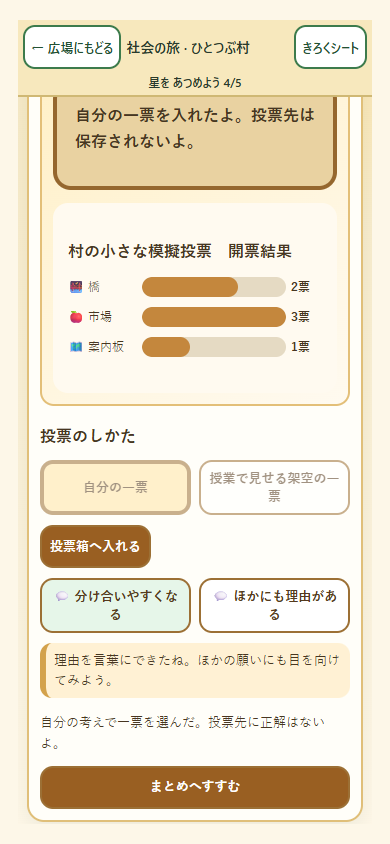
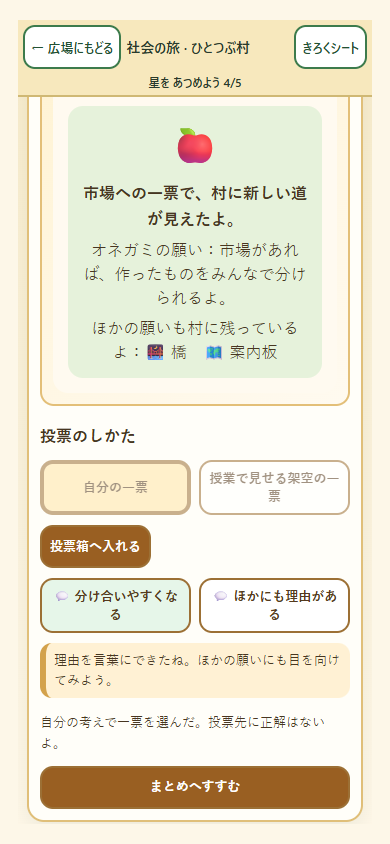
理科・社会の授業ゲームに試行と開票の手応えを追加
なぜ: 一度のタップで結果まで見せる場面が多く、途中の変化を見て考える楽しさが弱かったため。

どう作ったか: 発電3回と村の願いの進行を可視化。夜の小道は7目盛の試運転にし、開票は固定20通を5通ずつ開く。投票所の見え方と一票後の村の様子も示した。星・仲間・投票先の保存条件は変えていない。

確かめたこと: npm run build成功。全19群1122件ALL-PASS。専用ChromeでPC1280x800とスマホ縦390x844の両方にて2作品各5場面を実タップし、横はみ出し0、画像読込OK、例外0、捕獲保存と保存2キーの一致を確認。児童試遊は未実施。

Changed region(s): [[0.1231, 0.0924, 0.8615, 0.4621]]

diff --git a/public/lessons/gotomon/lesson-game-v2.js b/public/lessons/gotomon/lesson-game-v2.js
@@ -1,5 +1,6 @@
 import { ENERGY_CAPACITY, VOLTAGE_LEVELS, SPEED_NAMES, compareLamps,
-  simulateLightPlan, ELECTION_ERAS, PROPOSALS, turnoutTally, ballotTally } from './lesson-model-v2.js';
+  simulateLightPlan, ELECTION_ERAS, PROPOSALS, TURNOUT_BALLOTS,
+  countTurnoutBallots, ballotTally } from './lesson-model-v2.js';
 
 const slug = document.body.dataset.lesson;
 const root = document.getElementById('lesson-game');
@@ -91,11 +92,12 @@ function choiceGroup(target, options, selected, onSelect) {
   }
 }
 
-function timeline(ticks) {
+function timeline(ticks, revealed = ticks.length) {
   const line = node('div', 'lgv-timeline');
-  for (const tick of ticks) {
-    const cell = node('div', `lgv-tick ${tick.dark ? 'is-night' : 'is-day'} ${tick.lit ? 'is-lit' : ''}`);
-    cell.append(node('span', '', tick.dark ? '🌙' : '☀'), node('strong', '', tick.lit ? '💡' : '·'), node('small', '', tick.label));
+  for (const [index, tick] of ticks.entries()) {
+    const pending = index >= revealed;
+    const cell = node('div', `lgv-tick ${tick.dark ? 'is-night' : 'is-day'} ${!pending && tick.lit ? 'is-lit' : ''} ${pending ? 'is-pending' : ''}`);
+    cell.append(node('span', '', tick.dark ? '🌙' : '☀'), node('strong', '', pending ? '？' : tick.lit ? '💡' : '·'), node('small', '', tick.label));
     line.append(cell);
   }
   return line;
@@ -103,7 +105,7 @@ function timeline(ticks) {
 
 function tallyChart(votes) {
   const chart = node('div', 'lgv-tally');
-  const maximum = Math.max(...Object.values(votes));
+  const maximum = Math.max(1, ...Object.values(votes));
   for (const proposal of PROPOSALS) {
     const count = votes[proposal.id];
     const row = node('div', 'lgv-tally-row');
@@ -139,29 +141,39 @@ function renderKururuCrank() {
     turns = Math.min(3, turns + 1);
     rotation += speed === 'fast' ? 145 : speed === 'middle' ? 95 : 55;
     wheel.style.setProperty('--turn', `${rotation}deg`);
-    gauge.style.width = `${VOLTAGE_LEVELS[speed]}%`;
+    gauge.style.width = `${Math.round(VOLTAGE_LEVELS[speed] * turns / 3)}%`;
     gaugeLabel.textContent = `電圧計の針: ${SPEED_NAMES[speed]}回すと ${speed === 'fast' ? '高い' : speed === 'slow' ? '低い' : '中くらい'}`;
     count.textContent = `${turns} / 3 回`;
+    for (const [index, cell] of [...charges.children].entries()) cell.classList.toggle('is-charged', index < turns);
     if (turns === 3) {
+      wheel.disabled = true;
       records.add(speed);
-      observations.textContent = [...records].map(key => `${SPEED_NAMES[key]}: ${key === 'fast' ? '高い' : key === 'slow' ? '低い' : '中くらい'}`).join('　｜　');
+      clear(observations);
+      for (const key of records) observations.append(node('span', 'lgv-voltage-card',
+        `${key === 'fast' ? '⚡' : key === 'middle' ? '🔄' : '🐢'} ${SPEED_NAMES[key]}：${key === 'fast' ? '高い' : key === 'slow' ? '低い' : '中くらい'}`));
       ui.say(`${SPEED_NAMES[speed]}速さで3回回したよ。別の速さでも比べよう。`);
       if (records.size >= 2) ui.unlock('同じ発電機では、速く回すほど電圧計の針が大きく動いたね。');
     }
   }, 'lgv-wheel');
   wheel.setAttribute('aria-label', '発電機を1回回す');
   const count = node('strong', 'lgv-count', '0 / 3 回');
+  const charges = node('div', 'lgv-charges');
+  for (let index = 0; index < 3; index++) charges.append(node('span', '', '⚡'));
   const gaugeBox = node('div', 'lgv-gauge');
   const gauge = node('span', 'lgv-gauge-fill');
   gaugeBox.append(gauge);
   const gaugeLabel = paragraph('速さを選んで、発電機を回そう。', 'lgv-readout');
-  machine.append(node('span', 'lgv-spark', '⚡'), wheel, count, gaugeBox, gaugeLabel);
+  machine.append(node('span', 'lgv-spark', '⚡'), wheel, count, charges, gaugeBox, gaugeLabel);
   const observations = node('div', 'lgv-observations', '観察カードはここに並ぶよ');
   ui.play.append(machine, observations);
   ui.controls.append(paragraph('回す速さを選ぶ', 'lgv-control-label'), dial);
   const drawDial = () => choiceGroup(dial, [
     { value: 'slow', label: '🐢 ゆっくり' }, { value: 'middle', label: '🔄 ふつう' }, { value: 'fast', label: '⚡ はやく' },
-  ], speed, value => { speed = value; turns = 0; count.textContent = '0 / 3 回'; drawDial(); ui.say(`${SPEED_NAMES[speed]}速さで、3回回してみよう。`); });
+  ], speed, value => {
+    speed = value; turns = 0; wheel.disabled = false; gauge.style.width = '0%'; count.textContent = '0 / 3 回';
+    for (const cell of charges.children) cell.classList.remove('is-charged');
+    drawDial(); ui.say(`${SPEED_NAMES[speed]}速さで、3回回してみよう。`);
+  });
   drawDial();
 }
 
@@ -247,54 +259,89 @@ function renderKururuSensor() {
 }
 
 function renderKururuFinal() {
-  const ui = stageShell(stageTitles[4], '部品を組み合わせて、夜の小道を4目盛の間、照らしてみよう。');
+  const ui = stageShell(stageTitles[4], '部品を組み合わせ、昼から夜へ一歩ずつ進めよう。夜の4か所に明かりを届けられるかな？');
   const settings = { store: true, lamp: 'bulb', rule: 'always' };
   const groups = [node('div', 'lgv-segments'), node('div', 'lgv-segments'), node('div', 'lgv-segments')];
   const result = node('div', 'lgv-simulation', '組み合わせを選んで試運転しよう。');
+  let outcome = null, revealed = 0;
+  const step = button('次の1目盛へすすむ', () => {
+    if (!outcome || revealed >= outcome.ticks.length) return;
+    revealed += 1;
+    drawRun();
+    const current = outcome.ticks[revealed - 1];
+    ui.say(current.dark
+      ? current.lit ? `${current.label}の小道に明かりが届いた！` : `${current.label}は暗いまま。電気を使った場所を見直してみよう。`
+      : current.lit ? `${current.label}に点灯したよ。夜へ残る電気も見てみよう。` : `${current.label}は点灯しなかったよ。電気は夜へ残せるかな？`);
+    if (revealed === outcome.ticks.length) {
+      step.disabled = true;
+      ui.say(outcome.nightLit === 4 ? '夜の4か所全部に明かりが届いた！別の組み合わせも試せるよ。'
+        : `夜の4か所のうち${outcome.nightLit}か所を照らしたよ。部品を変えて、もう一度試せるよ。`);
+      ui.unlock('作る・ためる・使う方法を組み合わせて考えたね。どの結果も発見の星になるよ。');
+    }
+  }, 'lgv-action lgv-step');
+  step.disabled = true;
+  const drawRun = () => {
+    if (!outcome) return;
+    const current = outcome.ticks[revealed - 1];
+    const path = node('div', 'lgv-night-path');
+    for (let index = 0; index < 4; index++) {
+      const night = outcome.ticks[index + 3];
+      const visited = revealed > index + 3;
+      path.append(node('span', `lgv-path-light ${visited ? night.lit ? 'is-lit' : 'is-dark' : ''}`,
+        `${visited ? night.lit ? '💡' : '·' : '？'} ${index + 1}`));
+    }
+    clear(result, paragraph(`小道のミッション　夜の4か所を照らそう　${revealed}/7目盛`, 'lgv-mission'),
+      timeline(outcome.ticks, revealed), path, meter('残りの電気', current ? current.energy : settings.store ? ENERGY_CAPACITY : 0),
+      paragraph(revealed === 7 ? `夜の小道は 4目盛のうち ${outcome.nightLit}目盛 光ったよ。` : '自分のペースで一歩ずつ進めよう。'));
+  };
+  const resetRun = () => {
+    outcome = null; revealed = 0; step.disabled = true;
+    result.textContent = '組み合わせを変えたよ。試運転を始めよう。';
+  };
   const renderGroups = () => {
     choiceGroup(groups[0], [{ value: false, label: '昼に直接使う' }, { value: true, label: 'ためて夜へ' }], settings.store,
-      value => { settings.store = value; renderGroups(); });
+      value => { settings.store = value; resetRun(); renderGroups(); });
     choiceGroup(groups[1], [{ value: 'bulb', label: '豆電球' }, { value: 'led', label: 'LED' }], settings.lamp,
-      value => { settings.lamp = value; renderGroups(); });
+      value => { settings.lamp = value; resetRun(); renderGroups(); });
     choiceGroup(groups[2], [{ value: 'always', label: 'いつも点灯' }, { value: 'dark', label: '暗い時だけ' }], settings.rule,
-      value => { settings.rule = value; renderGroups(); });
+      value => { settings.rule = value; resetRun(); renderGroups(); });
   };
-  ui.play.append(node('div', 'lgv-path', '🏠　💡　💡　💡　🌲'), result);
+  ui.play.append(node('div', 'lgv-path', '🏠　🌲　🌲　🌲　🌲'), result);
   ui.controls.append(paragraph('1 電気の行き先', 'lgv-control-label'), groups[0],
     paragraph('2 明かりの道具', 'lgv-control-label'), groups[1],
     paragraph('3 点灯の命令', 'lgv-control-label'), groups[2],
     button('小道で試運転する', () => {
-      const outcome = simulateLightPlan(settings);
-      clear(result, timeline(outcome.ticks), paragraph(`夜の小道は 4目盛のうち ${outcome.nightLit}目盛 光ったよ。`),
-        meter('残りの電気', outcome.remaining));
-      ui.say(outcome.nightLit === 4 ? '小道が夜の間ずっと光った！ほかの組み合わせも試せるよ。'
-        : 'ここまでの明かりが見えたね。部品を変えてもう一度試せるよ。');
-      ui.unlock('作る・ためる・使う方法を組み合わせて考えたね。結果にかかわらず、この発見は星になるよ。');
-    }, 'lgv-action'));
+      outcome = simulateLightPlan(settings); revealed = 0; step.disabled = false; drawRun();
+      ui.say('電気をどこで使うか、昼から夜へ一歩ずつ見てみよう。');
+    }, 'lgv-action'), step);
   renderGroups();
 }
 
 function renderHyouVillage() {
   const ui = stageShell(stageTitles[0], '川、畑、分かれ道へ。好きな順に行って、3人の困りごとを確かめよう。');
   const seen = new Set();
+  const progress = node('div', 'lgv-village-progress', '願いカード 0 / 3');
   const map = node('div', 'lgv-village-map');
   const visit = node('div', 'lgv-visit', '場所を選んで村を歩こう。');
   const cards = node('div', 'lgv-wish-cards');
   for (const proposal of PROPOSALS) {
-    map.append(button(`${proposal.icon} ${proposal.place}`, () => {
+    const place = button(`${proposal.icon} ${proposal.place}`, () => {
       const face = node('img', 'lgv-visitor'); face.src = proposal.image; face.alt = proposal.gotomon;
       clear(visit, face, node('h2', '', `${proposal.gotomon}のいる${proposal.place}`),
         button(proposal.action, () => {
           seen.add(proposal.id);
+          place.classList.add('is-visited');
+          progress.textContent = `願いカード ${seen.size} / 3`;
           clear(visit, face, node('h2', '', `${proposal.place}で見つけたこと`), paragraph(proposal.need), paragraph(proposal.wish));
           clear(cards);
           for (const found of PROPOSALS.filter(item => seen.has(item.id))) cards.append(node('span', 'lgv-wish-card', `${found.icon} ${found.name}`));
           ui.say(`${proposal.gotomon}の願いを聞いたよ。ほかの場所にも行ってみよう。`);
           if (seen.size === 3) ui.unlock('3人には違う願いがあり、それぞれに理由がある。');
         }, 'lgv-action'));
-    }, 'lgv-place'));
+    }, 'lgv-place');
+    map.append(place);
   }
-  ui.play.append(map, visit, cards);
+  ui.play.append(progress, map, visit, cards);
 }
 
 function renderHyouHistory() {
@@ -329,6 +376,8 @@ function renderHyouBooth() {
     for (const [id, icon, label] of [['desk', '📝', '受付'], ['screen', '🚪', 'ついたて'], ['box', '🗳', '投票箱']]) {
       booth.append(node('div', `lgv-booth-part ${parts.has(id) ? 'is-placed' : ''}`, `${icon} ${label}`));
     }
+    booth.append(node('div', `lgv-sightline ${parts.has('screen') ? 'is-private' : ''}`,
+      parts.has('screen') ? '👀　ついたてで投票先が見えない' : '👀　記入するところが周りから見える'));
     clear(partButtons);
     for (const [id, label] of [['desk', '受付'], ['screen', 'ついたて'], ['box', '投票箱']]) {
       const control = button(`${parts.has(id) ? '✓ ' : '+ '}${label}`, () => {
@@ -351,22 +400,56 @@ function renderHyouBooth() {
 }
 
 function renderHyouTurnout() {
-  const ui = stageShell(stageTitles[3], '村の20人の例。参加が10人と20人のとき、開票を比べよう。');
+  const ui = stageShell(stageTitles[3], '架空の20人の票を5通ずつ開こう。参加が10人と20人のとき、先頭はどうなるかな？');
   const seen = new Set();
-  const chart = node('div', 'lgv-ballot-result', '参加人数を選んで開票しよう。');
-  const choices = node('div', 'lgv-segments');
+  let target = 10, revealed = 0, prediction = null;
+  const chart = node('div', 'lgv-ballot-result');
+  const envelopes = node('div', 'lgv-envelopes');
+  const choices = node('div', 'lgv-segments lgv-turnout-choices');
+  const guesses = node('div', 'lgv-segments');
+  const draw = () => {
+    clear(envelopes);
+    for (let index = 0; index < target; index++) {
+      const opened = index < revealed;
+      const proposal = opened ? PROPOSALS.find(item => item.id === TURNOUT_BALLOTS[index]) : null;
+      envelopes.append(node('span', `lgv-envelope ${opened ? 'is-open' : ''}`,
+        opened ? proposal.icon : '✉'));
+    }
+    clear(chart, node('strong', '', `📬 ${revealed} / ${target}通を開いたよ`), envelopes,
+      tallyChart(countTurnoutBallots(revealed)));
+    open.disabled = revealed >= target;
+  };
+  const open = button('次の5通を開く', () => {
+    if (revealed >= target) return;
+    revealed = Math.min(target, revealed + 5);
+    draw();
+    if (revealed === target) {
+      seen.add(target);
+      ui.say(target === 10 ? '10人では市場が先頭。さらに10人が参加したらどうなるかな？'
+        : '20人では橋が先頭。増えた票で数字がどう変わったかな？');
+      if (seen.size === 2) ui.unlock('この例では参加人数が変わると先頭も変わった。いつも変わるわけではないよ。');
+    } else ui.say('票が少しずつ積み上がっているね。次の5通も開いてみよう。');
+  }, 'lgv-action');
   for (const participants of [10, 20]) {
     choices.append(button(`${participants}人が参加`, () => {
-      const votes = turnoutTally(participants);
-      seen.add(participants);
-      clear(chart, node('strong', '', `📬 ${participants} / 20人が参加（投票率 ${participants * 5}%）`), tallyChart(votes));
-      ui.say(participants === 10 ? 'この例では市場が先頭だね。20人のときも見てみよう。'
-        : 'この例では橋が先頭だね。10人のときと何が変わったかな？');
-      if (seen.size === 2) ui.unlock('この例では参加人数が変わると結果も変わった。いつも変わるわけではないよ。');
+      if (target !== participants) revealed = participants === 20 && revealed === 10 ? 10 : 0;
+      target = participants;
+      for (const [index, control] of [...choices.children].entries()) {
+        control.classList.toggle('is-selected', index === (participants === 10 ? 0 : 1));
+        control.setAttribute('aria-pressed', String(index === (participants === 10 ? 0 : 1)));
+      }
+      draw();
+      ui.say(participants === 20 && revealed === 10 ? '最初の10通に、あと10通を加えて開こう。'
+        : `${participants}人の票を、5通ずつ開いてみよう。`);
     }, 'lgv-option'));
   }
+  const drawGuesses = () => choiceGroup(guesses, PROPOSALS.map(item => ({ value: item.id, label: `${item.icon} ${item.name}` })), prediction,
+    value => { prediction = value; drawGuesses(); ui.say('予想を置いたよ。開票して確かめよう。'); });
   ui.play.append(chart);
-  ui.controls.append(paragraph('同じ20人の村で比べる', 'lgv-control-label'), choices);
+  ui.controls.append(paragraph('先頭を予想する（変えてもいいよ）', 'lgv-control-label'), guesses,
+    paragraph('同じ20人の村で比べる', 'lgv-control-label'), choices,
+    paragraph('10人の参加は50%、20人の参加は100%。票の数はこの物語だけの例だよ。', 'lgv-small'), open);
+  drawGuesses(); choices.firstChild.classList.add('is-selected'); choices.firstChild.setAttribute('aria-pressed', 'true'); draw();
 }
 
 function renderHyouVote() {
@@ -382,9 +465,14 @@ function renderHyouVote() {
     cast = true;
     const votes = ballotTally(selected);
     clear(booth, paragraph(sample ? '先生が動かす架空の一票を入れたよ。' : '自分の一票を入れたよ。投票先は保存されないよ。'));
-    clear(result, node('strong', '', '村の小さな模擬投票　開票結果'), tallyChart(votes));
-    ui.say('一票を加えると、数字が変わったね。どんな理由で選んだか考えてみよう。');
     const chosen = PROPOSALS.find(proposal => proposal.id === selected);
+    const future = node('div', 'lgv-village-future');
+    future.append(node('span', 'lgv-future-icon', chosen.icon),
+      node('strong', '', `${chosen.name}への一票で、村に新しい道が見えたよ。`),
+      paragraph(`${chosen.gotomon}の願い：${chosen.wish}`),
+      paragraph(`ほかの願いも村に残っているよ：${PROPOSALS.filter(item => item.id !== selected).map(item => `${item.icon} ${item.name}`).join('　')}`));
+    clear(result, node('strong', '', '村の小さな模擬投票　開票結果'), tallyChart(votes), future);
+    ui.say('一票を加えると、数字が変わったね。どんな理由で選んだか考えてみよう。');
     clear(reasons, button(`💬 ${chosen.reason}`, () => {
       ui.say('理由を言葉にできたね。ほかの願いにも目を向けてみよう。');
       ui.unlock('自分の考えで一票を選んだ。投票先に正解はないよ。');

diff --git a/public/lessons/gotomon/lesson-game-v2.css b/public/lessons/gotomon/lesson-game-v2.css
@@ -46,10 +46,14 @@ body[data-lesson="hitotsubu"] .lgv-note { background: #fff1d4; border-left-color
 .lgv-spark { font-size: 26px; }
 .lgv-wheel { width: 90px; height: 90px; border-radius: 50%; border: 8px solid #659b76; font-size: 52px; padding: 0; line-height: 1; color: #205138; background: radial-gradient(circle, #fffdeb 30%, #b1d3a8 31%); transform: rotate(var(--turn, 0deg)); transition: transform .35s ease; }
 .lgv-count { font-size: 18px; }
+.lgv-charges { display: flex; gap: 8px; }
+.lgv-charges span { display: grid; place-items: center; width: 32px; height: 32px; border-radius: 50%; background: #d4e0d3; filter: grayscale(1); opacity: .55; }
+.lgv-charges span.is-charged { background: #ffe597; filter: none; opacity: 1; box-shadow: 0 0 13px #ffcf61; }
 .lgv-gauge { height: 17px; width: min(100%, 360px); background: #b5cbb5; border-radius: 99px; overflow: hidden; }
 .lgv-gauge-fill { display: block; width: 0; height: 100%; background: linear-gradient(90deg, #84bd68, #ffd459); transition: width .35s; }
 .lgv-readout { margin: 0; text-align: center; }
-.lgv-observations { margin-top: 13px; min-height: 36px; text-align: center; padding: 8px; border-radius: 10px; background: #fff9df; font-weight: 700; }
+.lgv-observations { display: flex; justify-content: center; flex-wrap: wrap; gap: 7px; margin-top: 13px; min-height: 36px; text-align: center; padding: 8px; border-radius: 10px; background: #fff9df; font-weight: 700; }
+.lgv-voltage-card { padding: 5px 9px; border-radius: 9px; background: white; box-shadow: 0 2px 5px #634b1c24; }
 .lgv-wire-world { display: grid; grid-template-columns: 1fr 100px 1fr; align-items: center; gap: 12px; min-height: 180px; }
 .lgv-world-panel { display: grid; place-items: center; min-height: 120px; padding: 12px; border-radius: 17px; background: #fff2b7; font-weight: 800; text-align: center; }
 .lgv-world-panel.is-night { color: #fff; background: #284459; }
@@ -68,12 +72,20 @@ body[data-lesson="hitotsubu"] .lgv-note { background: #fff1d4; border-left-color
 .lgv-tick { display: grid; justify-items: center; gap: 4px; padding: 10px 2px; border-radius: 12px; background: #fce9b1; color: #4d432b; }
 .lgv-tick.is-night { background: #324b62; color: white; }
 .lgv-tick.is-lit strong { text-shadow: 0 0 11px #ffe270; }
+.lgv-tick.is-pending { opacity: .52; filter: saturate(.45); }
 .lgv-tick small { font-size: 11px; }
 .lgv-simulation { display: grid; gap: 14px; min-height: 155px; align-content: center; }
 .lgv-simulation p { margin: 0; text-align: center; font-weight: 800; }
 .lgv-path { text-align: center; padding: 12px; margin-bottom: 12px; border-radius: 15px; background: linear-gradient(#abcfe7, #618d6f); font-size: clamp(23px, 4vw, 42px); letter-spacing: .08em; }
+.lgv-mission { padding: 8px; border-radius: 12px; background: #fff2ba; }
+.lgv-night-path { display: grid; grid-template-columns: repeat(4, minmax(0, 1fr)); gap: 8px; }
+.lgv-path-light { padding: 10px 4px; border-radius: 14px; background: #dce5e8; text-align: center; font-weight: 800; font-size: 20px; }
+.lgv-path-light.is-lit { background: #ffe394; box-shadow: 0 0 16px #ffce50; }
+.lgv-path-light.is-dark { color: white; background: #354a62; }
 .lgv-village-map { display: grid; grid-template-columns: repeat(3, minmax(0, 1fr)); gap: 10px; padding: 14px; border-radius: 17px; background: linear-gradient(150deg, #bde2b2, #efcf8c); }
+.lgv-village-progress { margin-bottom: 10px; padding: 8px; border-radius: 10px; background: #fff5d7; text-align: center; font-weight: 800; }
 .lgv-place { min-height: 90px; font-size: 18px; background: #fff9e8; }
+.lgv-place.is-visited { background: #dff2d9; box-shadow: inset 0 0 0 3px #6ea56e; }
 .lgv-visit { display: flex; align-items: center; flex-wrap: wrap; gap: 10px; min-height: 108px; margin-top: 12px; padding: 12px; border-radius: 14px; background: #fff7df; }
 .lgv-visit h2, .lgv-visit p { margin: 0; }
 .lgv-visit p { flex-basis: 100%; }
@@ -90,7 +102,13 @@ body[data-lesson="hitotsubu"] .lgv-note { background: #fff1d4; border-left-color
 .lgv-booth { display: grid; grid-template-columns: repeat(3, minmax(0, 1fr)); gap: 10px; }
 .lgv-booth-part { display: grid; place-items: center; min-height: 145px; padding: 12px; border: 3px dashed #c5b9a0; border-radius: 16px; background: #eee7d9; color: #877c6e; font-size: 19px; text-align: center; }
 .lgv-booth-part.is-placed { border-style: solid; border-color: #9b763f; background: #fff9e9; color: #4d3921; box-shadow: 0 5px 12px #ae854530; }
+.lgv-sightline { grid-column: 1 / -1; padding: 10px; border: 2px dashed #ae7355; border-radius: 12px; background: #fff0de; text-align: center; font-weight: 800; }
+.lgv-sightline.is-private { border-color: #68a17c; background: #e4f3df; }
 .lgv-ballot-result { display: grid; gap: 12px; min-height: 190px; align-content: center; padding: 15px; border-radius: 15px; background: #fffaf0; }
+.lgv-envelopes { display: grid; grid-template-columns: repeat(10, minmax(0, 1fr)); gap: 4px; }
+.lgv-envelope { display: grid; place-items: center; min-height: 31px; border-radius: 7px; background: #e9dcc4; font-size: 20px; }
+.lgv-envelope.is-open { background: #ffefb7; animation: lgv-reveal .3s ease-out; }
+@keyframes lgv-reveal { from { transform: translateY(-5px) scale(.8); opacity: .3; } to { transform: translateY(0) scale(1); opacity: 1; } }
 .lgv-tally { display: grid; gap: 10px; width: 100%; }
 .lgv-tally-row { display: grid; grid-template-columns: 100px minmax(50px, 1fr) 42px; align-items: center; gap: 10px; }
 .lgv-tally-track { height: 20px; border-radius: 99px; overflow: hidden; background: #e5dac3; }
@@ -100,6 +118,9 @@ body[data-lesson="hitotsubu"] .lgv-note { background: #fff1d4; border-left-color
 .lgv-ballot-choices { display: grid; grid-template-columns: repeat(3, minmax(0, 1fr)); gap: 8px; }
 .lgv-ballot-choice { min-height: 85px; background: #fffef6; }
 .lgv-private-booth + .lgv-ballot-result { margin-top: 13px; }
+.lgv-village-future { display: grid; justify-items: center; gap: 6px; padding: 13px; border-radius: 15px; background: #e6f2db; text-align: center; }
+.lgv-future-icon { font-size: 35px; }
+.lgv-village-future p { margin: 0; line-height: 1.5; }
 @media (max-width: 600px) {
   .lgv-shell { padding: 9px 9px 22px; }
   .lgv-top { font-size: 12px; margin-bottom: 7px; }
@@ -127,6 +148,8 @@ body[data-lesson="hitotsubu"] .lgv-note { background: #fff1d4; border-left-color
   .lgv-booth { gap: 5px; }
   .lgv-booth-part { min-height: 100px; padding: 5px; font-size: 13px; }
   .lgv-tally-row { grid-template-columns: 69px minmax(30px, 1fr) 31px; gap: 5px; font-size: 12px; }
+  .lgv-envelopes { grid-template-columns: repeat(5, minmax(0, 1fr)); }
+  .lgv-path-light { font-size: 15px; }
   .lgv-ballot-choices { grid-template-columns: 1fr; }
   .lgv-ballot-choice { min-height: 48px; }
 }

diff --git a/public/lessons/gotomon/lesson-model-v2.js b/public/lessons/gotomon/lesson-model-v2.js
@@ -38,9 +38,20 @@ export const PROPOSALS = Object.freeze([
   { id: 'map', name: '案内板', gotomon: 'チズリン', icon: '🗺', image: '/assets/images/monsters/full/mini-game/MG-048.webp', place: '分かれ道', action: '村までの道を探す', need: '初めて来た子は、分かれ道で迷ってしまうね。', wish: '案内板があれば、村へ来る道が分かるよ。', reason: '初めての子も迷いにくい' },
 ]);
 
+// 匿名の架空票。最初の10通と、あとから参加する10通を固定して比較する。
+export const TURNOUT_BALLOTS = Object.freeze([
+  'market', 'bridge', 'map', 'market', 'map', 'market', 'bridge', 'market', 'map', 'market',
+  'bridge', 'map', 'bridge', 'market', 'bridge', 'bridge', 'map', 'bridge', 'market', 'bridge',
+]);
+
+export function countTurnoutBallots(revealed) {
+  const votes = { bridge: 0, market: 0, map: 0 };
+  for (const choice of TURNOUT_BALLOTS.slice(0, Math.max(0, Math.min(20, revealed)))) votes[choice] += 1;
+  return votes;
+}
+
 export function turnoutTally(participants) {
-  if (participants === 10) return { bridge: 2, market: 5, map: 3 };
-  if (participants === 20) return { bridge: 8, market: 7, map: 5 };
+  if (participants === 10 || participants === 20) return countTurnoutBallots(participants);
   return null;
 }
 

diff --git a/docs/progress-handoff.md b/docs/progress-handoff.md
@@ -1,12 +1,13 @@
 # 作業引き継ぎ / 再開ガイド
 
-## 次回はここから（2026-10-06）
+## 次回はここから（2026-10-07）
 
-- **状態**: 理科「クルルの発電所」と社会「ひとつぶ村」のゲームv2を本番公開済み。実装は PR #111、引き継ぎ更新は PR #112。最新 main のマージコミット `0f59ce9` は Vercel 本番 success。作業ブランチは `feature/content-bank-120`、公開結果までのコミットは `224828c`。
+- **状態**: 本番の理科「クルルの発電所」と社会「ひとつぶ村」のゲームv2はそのまま。作業ブランチ `feature/content-bank-120` で、ゲーム性を高める改良をローカル実装した。push・PR・公開はしていない。
 - **入口**: 本番は `https://yomitabi.gamanavi.com/lessons/gotomon/kururu.html` と `https://yomitabi.gamanavi.com/lessons/gotomon/hitotsubu.html`。現行ゲームは `public/lessons/gotomon/lesson-game-v2.js`、計算は `lesson-model-v2.js`、表示は `lesson-game-v2.css`。旧 `lesson-game.js` は参照されない比較用。設計と確認画面は `docs/lesson-pilot/`。
+- **今回の改良**: 理科の最終ミッションは試運転を7目盛に分け、電気の残りと夜の4か所の明かりを一歩ずつ見せる。組み直して再試行でき、どの結果でも星を得る。社会の投票所はついたてによる見え方を示し、開票は固定した20通を5通ずつ開く。最後の一票のあとには選んだ願いと残る願いを村の景色として示す。投票先は保存しない。
 - **次の作業**: 先生と児童に両作品を遊んでもらい、操作で迷う場面、結果から学べたこと、楽しさ、所要時間、うまくいかなかった瞬間の受け止め方を記録する。結果を見てから修正点と残り73授業への展開を判断する。児童試遊はまだ行っていない。
-- **再検証**: `npm.cmd run build` → `npm.cmd run preview -- --port 4173 --strictPort`。専用Chrome 9333番で、試験用セーブを各回入れ直して `node scripts/playtest-cdp/lesson-v2-playtest.mjs 1280 800 --parent` と `node scripts/playtest-cdp/lesson-v2-playtest.mjs 390 844 --parent`。詳細は `scripts/playtest-cdp/README.md`。全テストは `bash scripts/playtest-cdp/run-all-tests.sh` の最終 `ALL-PASS` を見る。前回は19群1122件。
-- **作業ツリー**: この作業の前から音声・ミニゲーム・テスト・画像などに多数の未コミット変更がある。今回のPRには含めていない。次回は `git status --short` を見て、対象ファイルだけ明示してステージする。push・PR・マージ・公開は新たな明示指示があるときだけ行う。
+- **再検証**: `npm.cmd run build` 成功、全19群1122件 `ALL-PASS`。専用Chrome 9333番で試験用セーブを各回入れ直し、`node scripts/playtest-cdp/lesson-v2-playtest.mjs 1280 800 --parent` と `node scripts/playtest-cdp/lesson-v2-playtest.mjs 390 844 --parent` を通した。2作品各5場面を実タップし、横はみ出し0・画像読込OK・例外0・捕獲保存と保存キー一致を確認。詳細は `scripts/playtest-cdp/README.md`。
+- **作業ツリー**: この作業の前から音声・ミニゲーム・テスト・画像などに多数の未コミット変更がある。今回の変更とは分け、対象ファイルだけ明示してステージする。push・PR・マージ・公開は新たな明示指示があるときだけ行う。
 - **別件の未決**: Firestore セキュリティルールと公開先の一本化はユーザー判断待ち。使われていない画像17枚の削除も未決で、現状は残している。
 
 ## 過去の記録

diff --git a/docs/lesson-pilot/game-design-v2.md b/docs/lesson-pilot/game-design-v2.md
@@ -35,7 +35,7 @@
 | 1 村を歩く | 川・市場・道案内の3か所を好きな順に訪ね、カワワタたちの困りごとを実際に見て話を聞く | 橋がない道、物を届けにくい道、迷う道がそれぞれ短く動く。3つの願いカードが集まる | 同じ村にも違う願いと理由がある |
 | 2 選挙の歴史 | 1889、1925、1945、2016年へ年表を動かし、当時の「投票できる人」を比べる | 人々の姿と人数が段階的に増える。年と条件を重ねて見られる | 選挙権の範囲は広がってきた。年号だけの暗記にしない |
 | 3 ひみつの投票所 | 受付、記入台の囲い、投票箱を配置し、模擬票を入れる | 囲いがないと周囲から記入が見える。囲いを置くと投票先は本人だけに見える | 秘密投票は自由に考えを表すための仕組み |
-| 4 開票実験 | 匿名の20票について、10人参加・20人参加の2場面を切り替えて開票する | 封筒が一枚ずつ数えられ、棒グラフと参加した割合が変わる | この例では参加人数が変わると先頭も変わる。いつも逆転するとは言わない |
+| 4 開票実験 | 匿名の20票について、10人参加・20人参加の2場面を切り替え、5通ずつ開票する | 封筒が開くたびに棒グラフが伸び、10人と20人の結果を比べられる | この例では参加人数が変わると先頭も変わる。いつも逆転するとは言わない |
 | 5 自分の一票 | 個人の画面で3人の提案と理由を見直し、囲いの中で一人を選んで投票する。自分の理由を言葉か理由カードで整理する | 投票後の本人の画面だけで票が一つ加わり、村の様子が変わる。他の願いも残る | 投票先に正解はない。一票とその理由を大切にする |
 
 歴史の年表には「きまりが変わった年」と「最初の選挙で使われた年」を区別する。1889→1890、1925→1928、1945→1946、2015→2016という対応は[衆議院の資料](https://www.shugiin.go.jp/internet/itdb_kenpou.nsf/html/kenpou/shukenshi092.pdf/$File/shukenshi092.pdf)で確認できる。ゲームの主画面では4つの節目を短く示し、詳細は開ける形にする。「普通選挙」「秘密選挙」「投票率」は、操作後の発見カードときろくシートで意味とともに示す。
